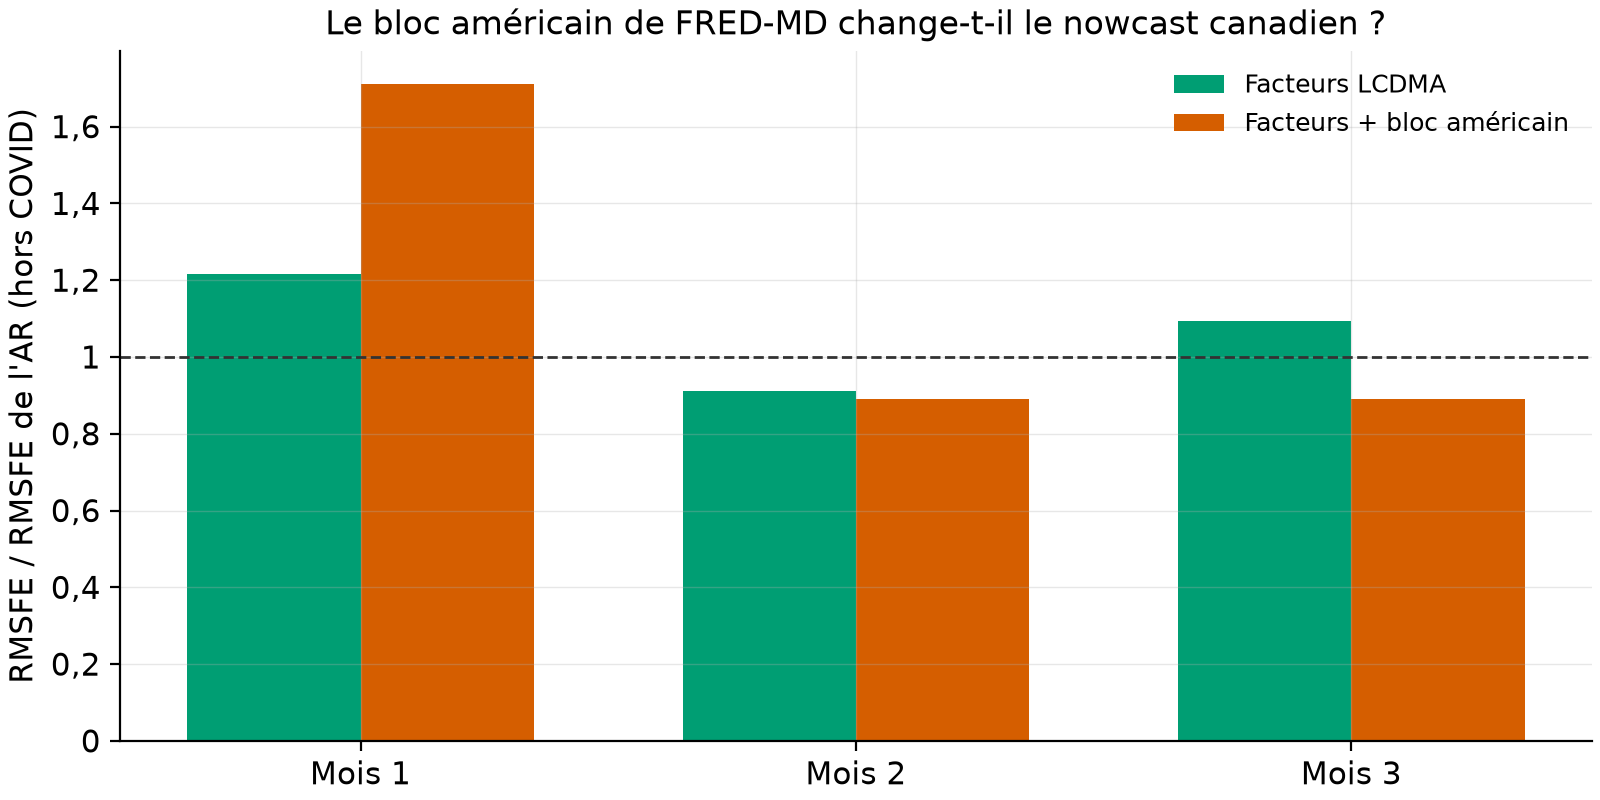
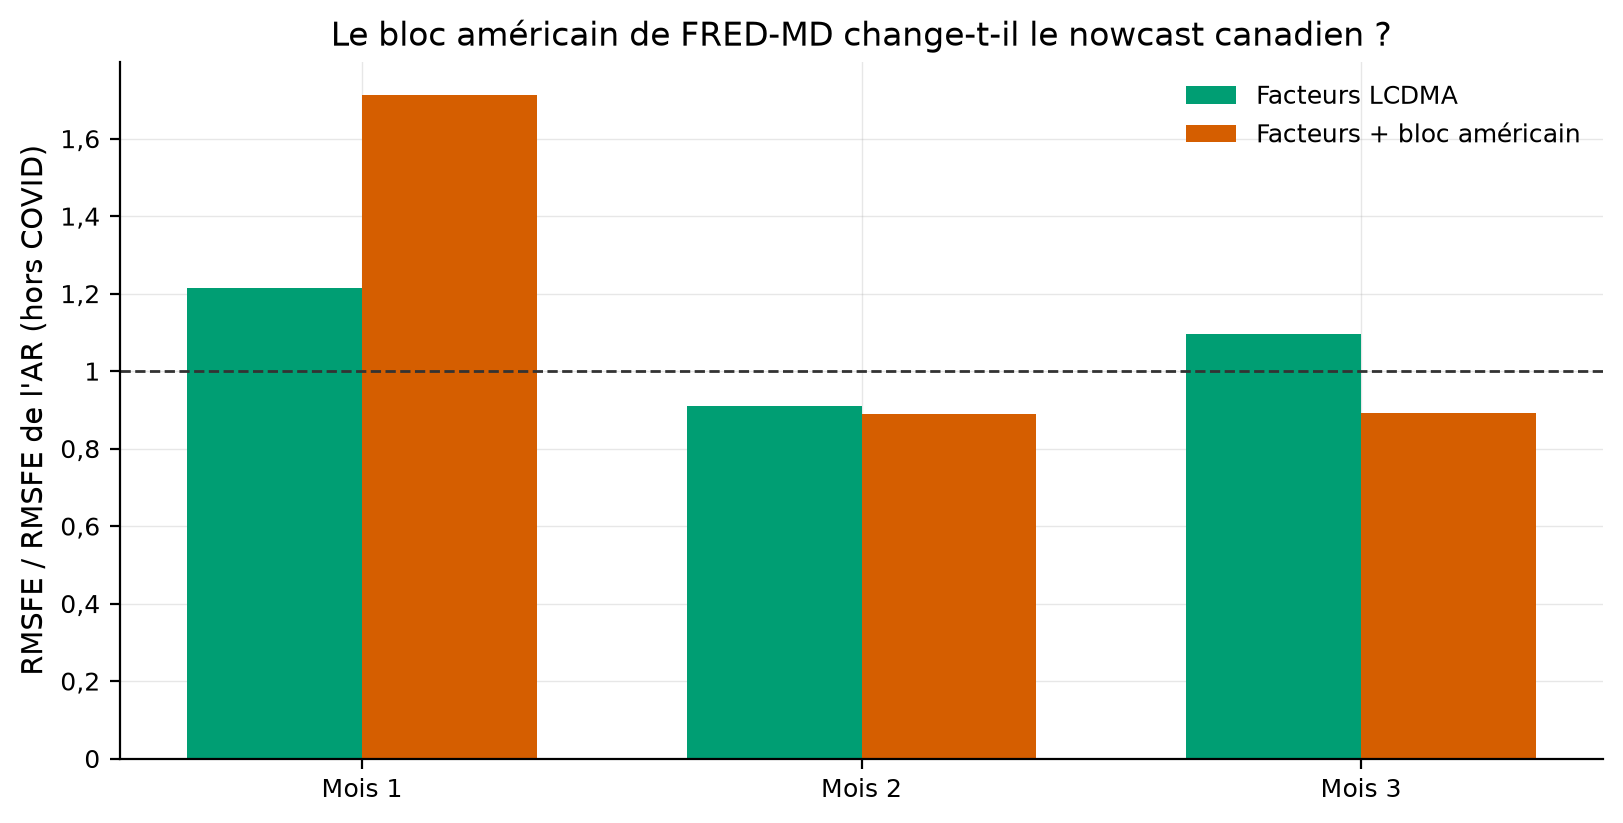
Consommer la feuille de style partagée au lieu de recopier la palette
La palette Okabe-Ito et les réglages de figure étaient recopiés à l'identique dans
chaque dépôt du portefeuille. Une correction de graisse de trait devait donc être faite
une fois par dépôt, et ne l'était jamais.

Le module de figures appelle désormais gv-fintools 0.2.1. Le nom public de la fonction
de réglage ne change pas, si bien qu'aucun appelant n'est touché. Les figures sont
régénérées avec le nouveau style, qui ajoute l'embarquement des polices dans les PDF :
le texte d'une figure reste sélectionnable et cherchable dans le rapport.

diff --git a/src/ncc/figures.py b/src/ncc/figures.py
@@ -10,26 +10,19 @@ from pathlib import Path
 import matplotlib.pyplot as plt
 import numpy as np
 import pandas as pd
+from gvf.style import OKABE_ITO, appliquer, formateur  # noqa: F401
 
-OKABE_ITO = ["#0072B2", "#E69F00", "#009E73", "#D55E00", "#CC79A7", "#56B4E9", "#F0E442", "#000000"]
+# La palette et les réglages viennent de la couche partagée du portefeuille : les mêmes
+# couleurs et la même virgule décimale dans tous les dépôts, corrigées à un seul endroit.
 LABELS = {"ar": "AR (référence)", "bridge": "Bridge PIB mensuel", "facteurs": "Facteurs LCDMA",
           "elastic_net": "Elastic net", "foret": "Forêt aléatoire",
           "facteurs_plus_us": "Facteurs + bloc américain"}
 
 
 def use_style():
-    import matplotlib as mpl
-    from cycler import cycler
-    from matplotlib.ticker import FuncFormatter
-
-    mpl.rcParams.update({
-        "figure.dpi": 200, "savefig.dpi": 200, "figure.constrained_layout.use": True,
-        "font.size": 11, "axes.titlesize": 12, "axes.prop_cycle": cycler(color=OKABE_ITO),
-        "axes.spines.top": False, "axes.spines.right": False,
-        "axes.grid": True, "grid.alpha": 0.3, "grid.linewidth": 0.5,
-        "legend.frameon": False, "lines.linewidth": 1.6,
-    })
-    return FuncFormatter(lambda v, _: f"{v:g}".replace(".", ","))
+    """Les réglages communs, puis le formateur d'axe en français."""
+    appliquer()
+    return formateur()
 
 
 def fig_nowcast_vs_realise(results: pd.DataFrame, dest: Path) -> None:
